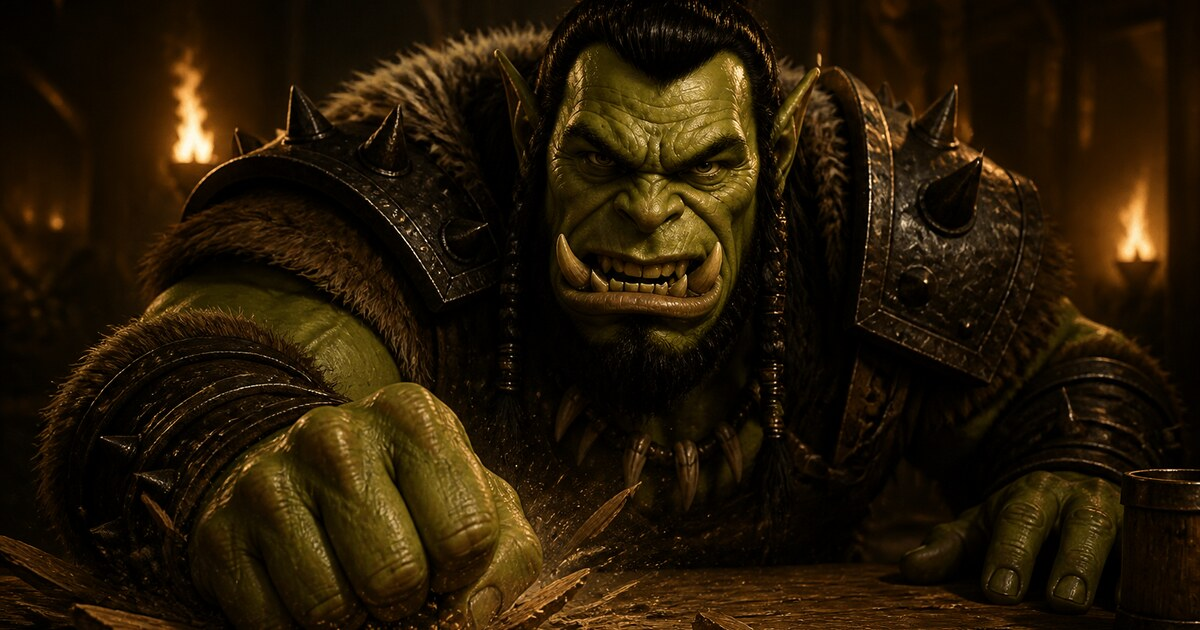
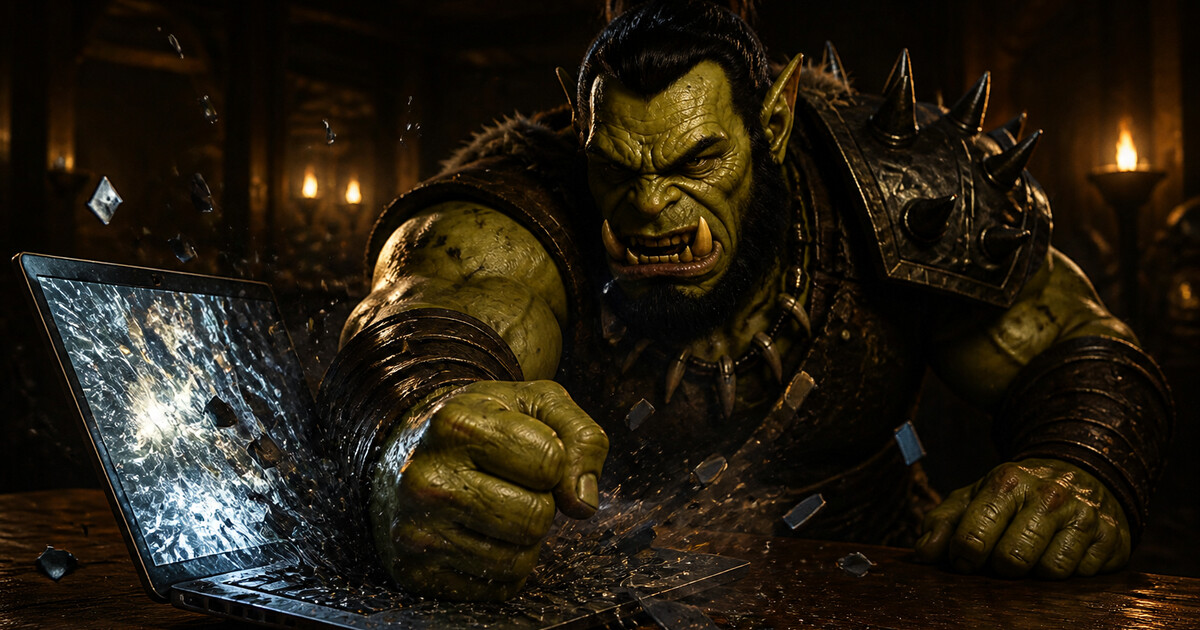
Reshoot Smash so the orc slams a laptop.

diff --git a/scripts/imagine-video.ts b/scripts/imagine-video.ts
@@ -54,7 +54,7 @@ const PROMPTS: Record<string, string> = {
   sleep:
     "The orc sleeps, chest rising and falling, a tiny sleepy sway. Soft breathing motion. Locked camera.",
   smash:
-    "The orc slams his fist down hard, wood jumping, a short smash, fierce look holding. Locked camera.",
+    "The orc slams his fist down hard onto the laptop, keys and shards flying, a short smash, fierce look holding. Locked camera.",
   spotted:
     "The orc's eyes widen as he realizes he has been seen, a small caught flinch toward the camera. Locked camera.",
   stars:
